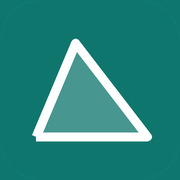
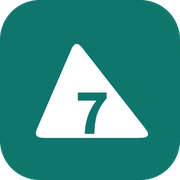
Eigenes App-Symbol mit der Klassenstufe 7 im Dreieck
Claude-Session: https://claude.ai/code/session_014D9hKSKrHf7yofxRtPT2Vd

diff --git a/index.html b/index.html
@@ -38,7 +38,7 @@ html.fs #fs .fo{display:inline}
 <div class="top"><h1>Mathe 7</h1><button id="fs" aria-label="Vollbild" title="Vollbild (F)"><svg viewBox="0 0 24 24" aria-hidden="true"><path class="fi" d="M4 9V4h5M15 4h5v5M20 15v5h-5M9 20H4v-5"/><path class="fo" d="M9 4v5H4M20 9h-5V4M15 20v-5h5M4 15h5v5"/></svg></button></div>
 <section><h2>Zweisatz bei proportionalen Zuordnungen</h2><div class="row"><a class="go" href="zweisatz.html">Einführung</a><a href="ab.html?n=ab-zweisatz">Blatt</a></div></section>
 <section><h2>Zweisatz mit Teilen und Dreisatz</h2><div class="row"><a class="go" href="dreisatz.html">Einführung</a><a href="ab.html?n=ab-dreisatz">Blatt</a></div></section>
-<div class="fassung"><span>Fassung <span id="stand">24.11.2026 17:12</span></span><button id="aktualisieren" type="button">Neueste Fassung laden</button><span id="fassung-status"></span></div>
+<div class="fassung"><span>Fassung <span id="stand">24.11.2026 18:09</span></span><button id="aktualisieren" type="button">Neueste Fassung laden</button><span id="fassung-status"></span></div>
 <script>
 // Vollbild: Knopf oder Taste F. Nach einem Seitenwechsel holt der erste Tipp das Vollbild zurück.
 (() => {

diff --git a/sw.js b/sw.js
@@ -1,5 +1,5 @@
 // Eigener Cache-Präfix, damit andere Werkzeuge unter derselben Adresse unberührt bleiben.
-const CACHE = 'plenum7-3288d11b';
+const CACHE = 'plenum7-f6d7563d';
 // Alles, was beim ersten Aufruf in den Speicher kommt.
 const FILES = [
   './',
